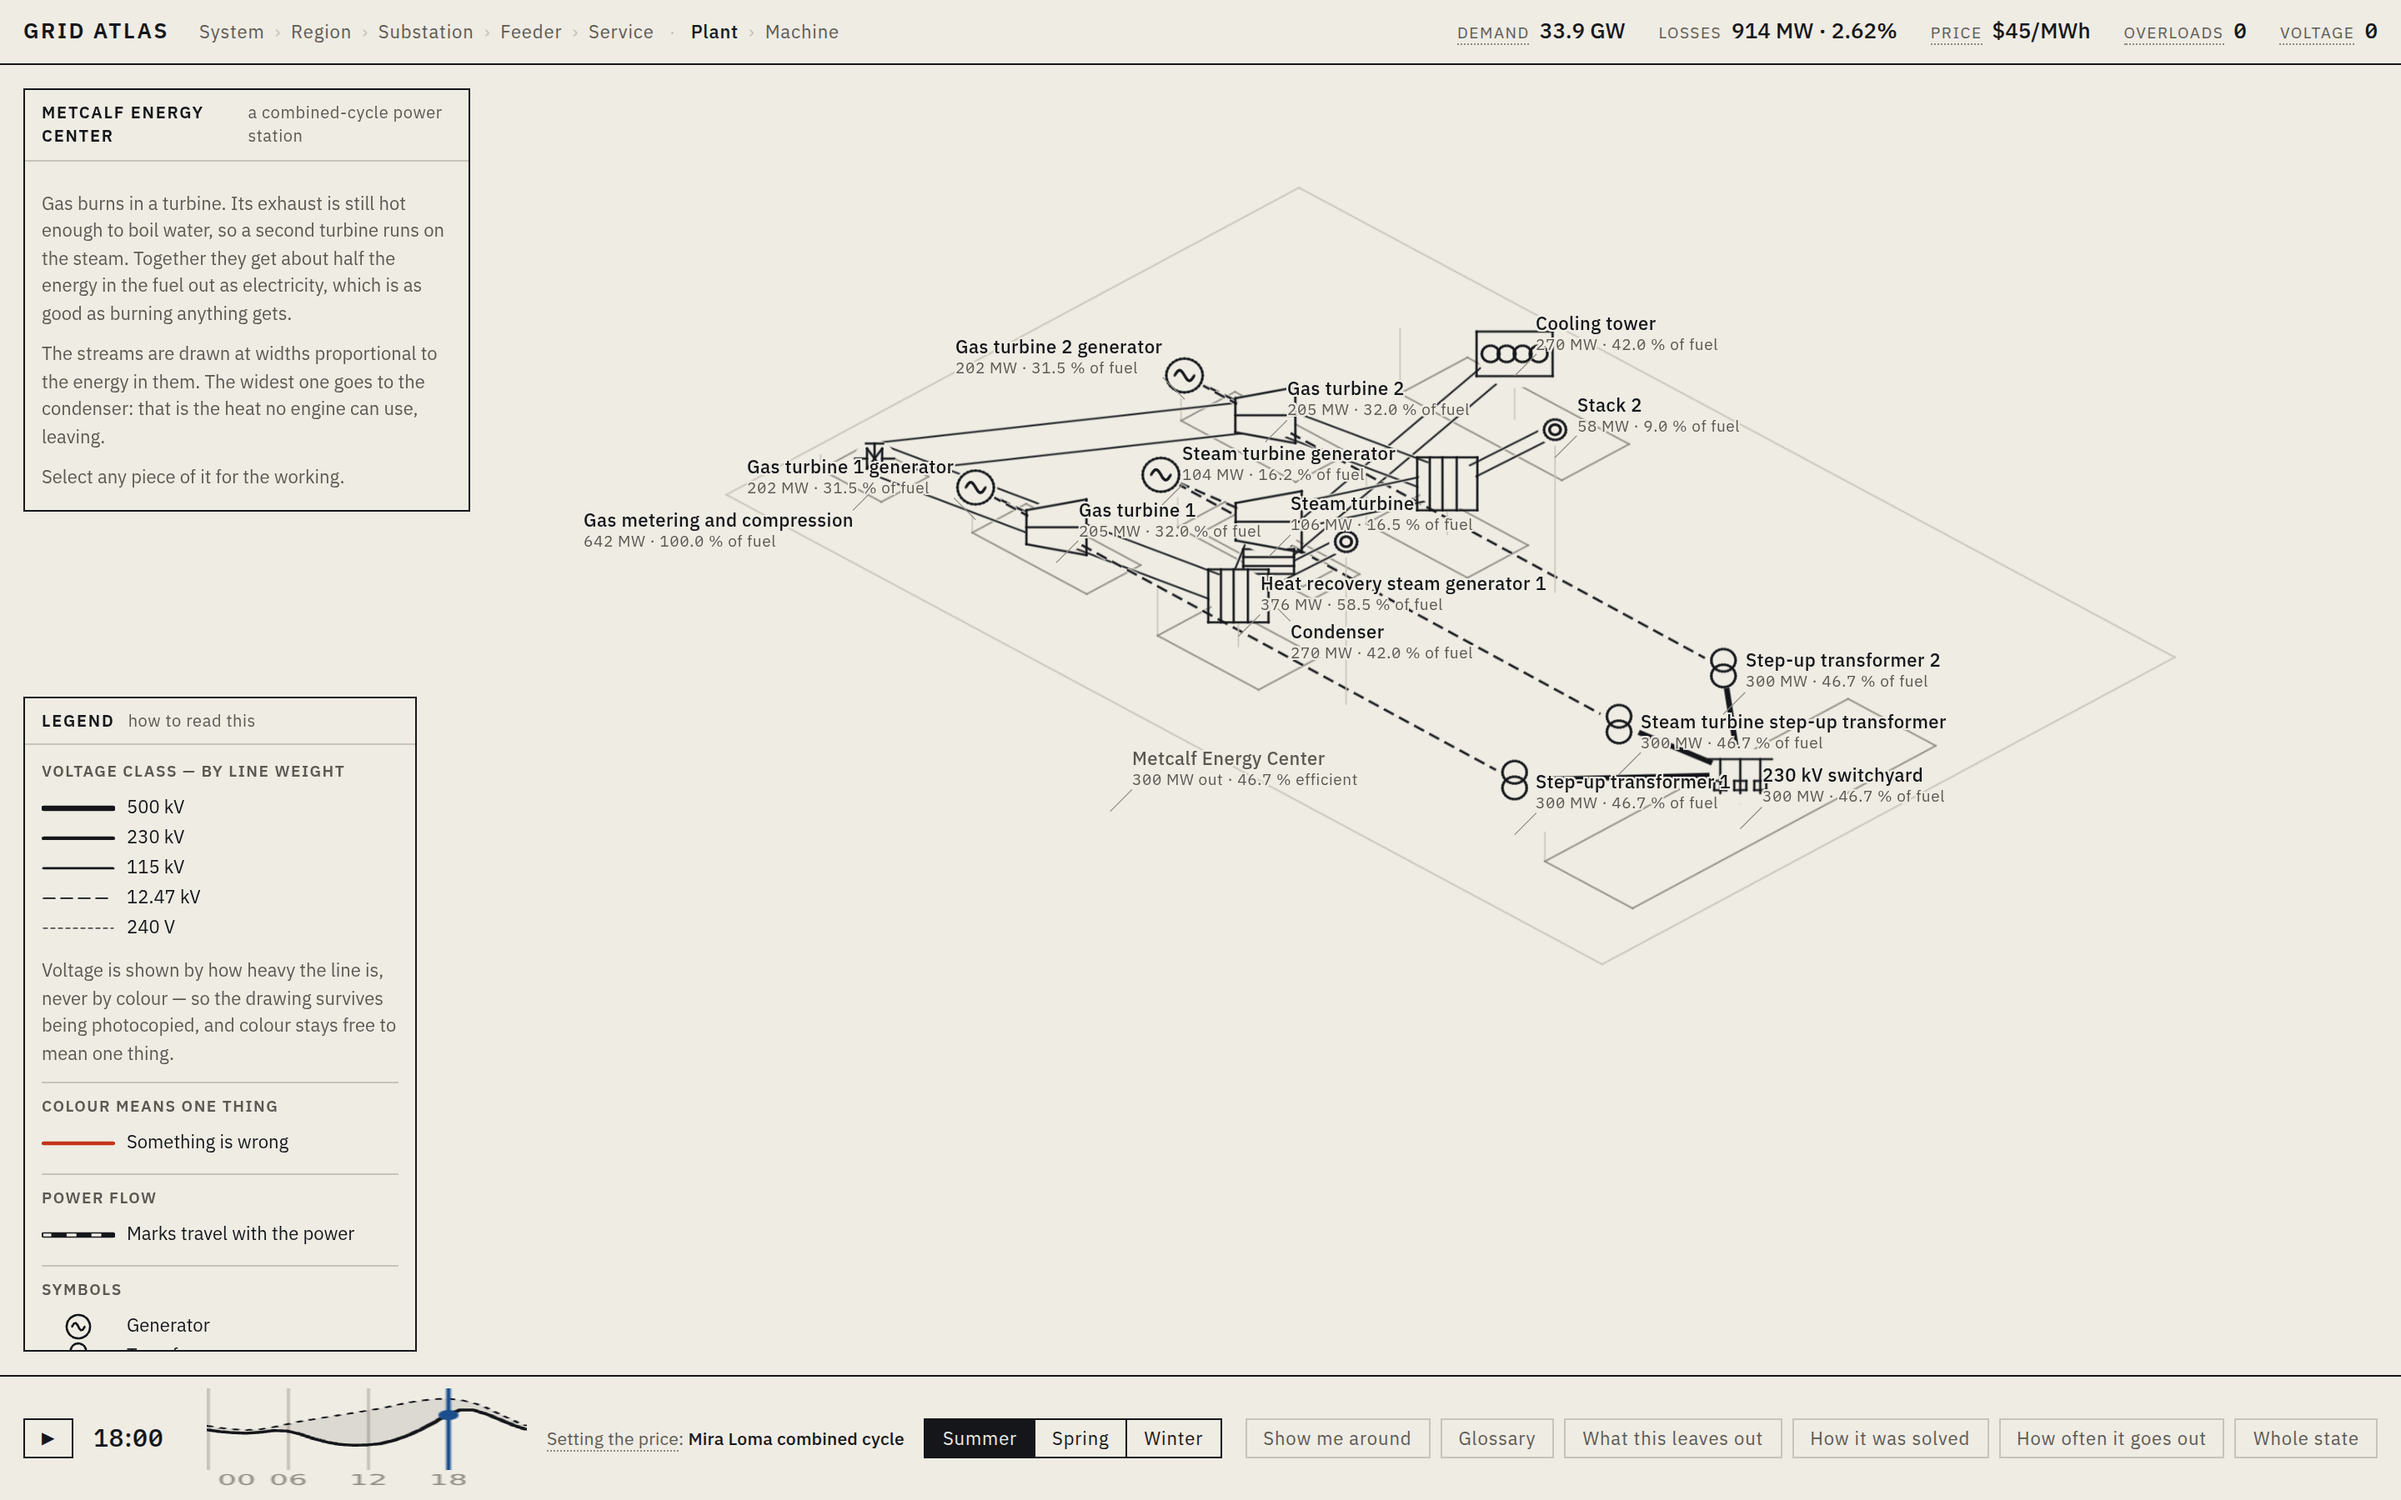
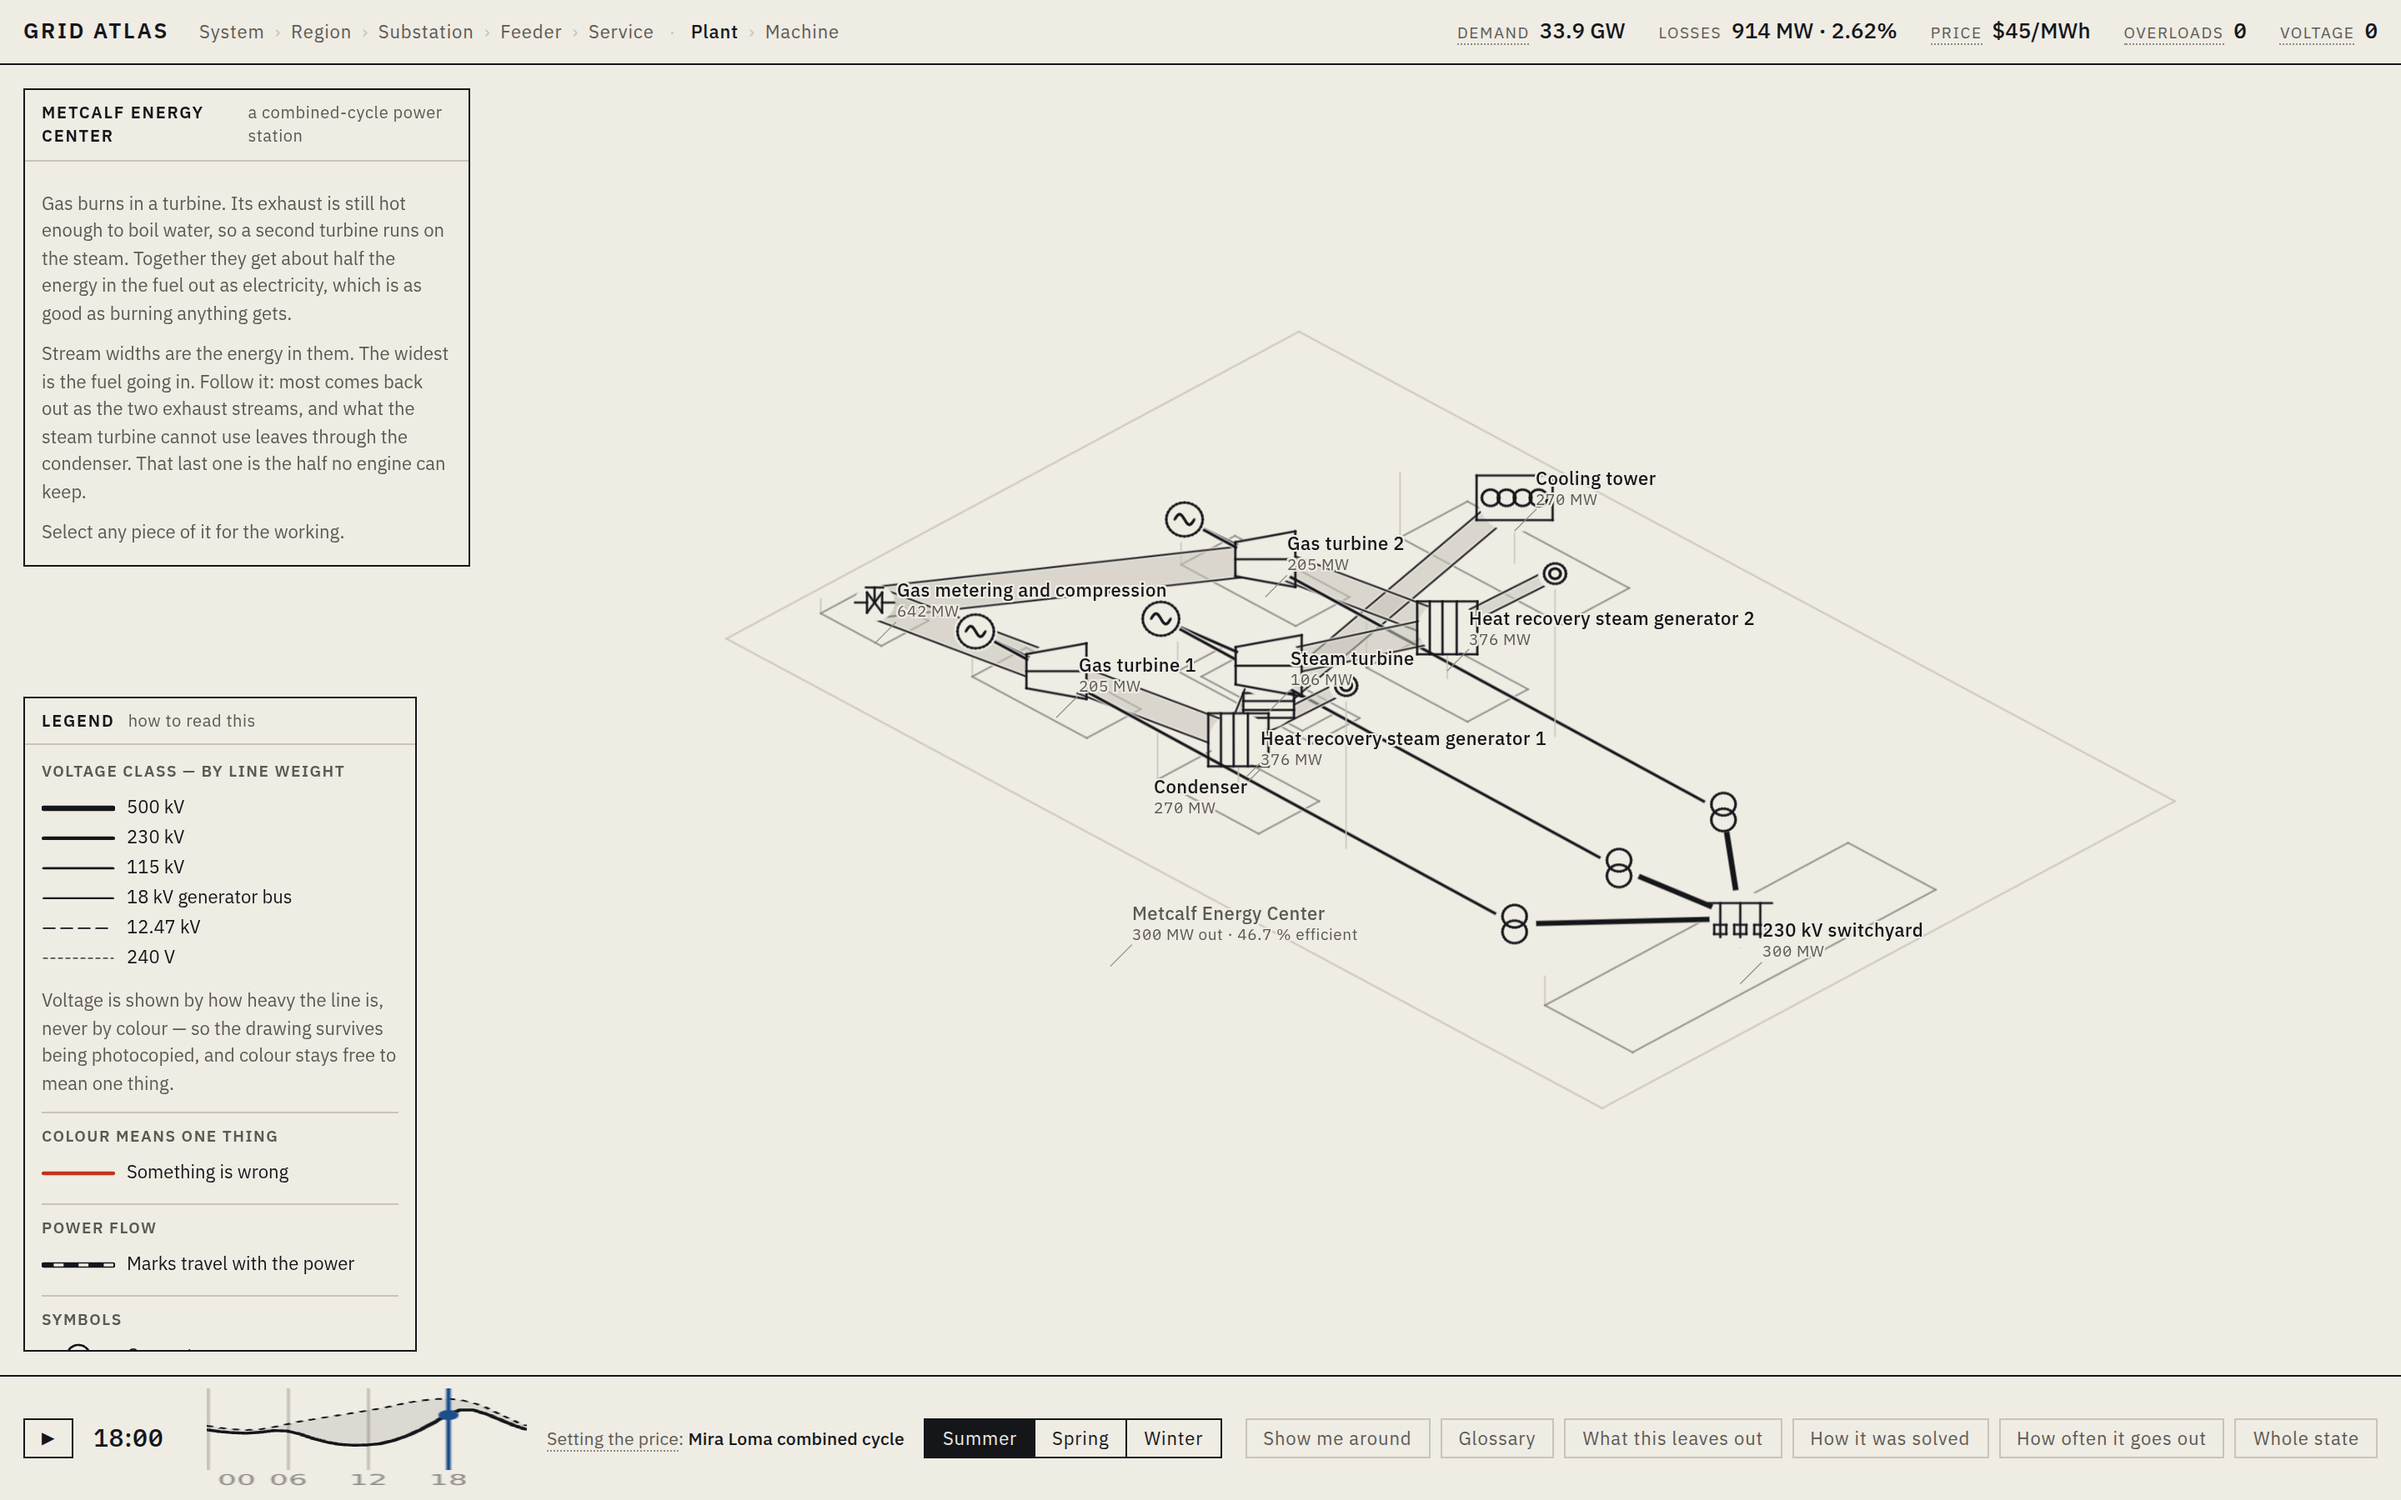
The plant: the drawing now makes the claim the panel makes
THE DUCTS WERE INVISIBLE. Thermal streams are drawn at widths proportional to
the energy in them, which is the whole idea of the view — and they were two
thin walls a centimetre apart, which reads as two lines, not as a stream. A
pale core between the walls turns the pair into a band, the way a section
through a duct is drawn, and the widths are now something the eye can
compare.

THE PANEL WAS WRONG ABOUT ITS OWN DRAWING. It said the widest stream goes to
the condenser. The widest stream is the fuel going in, at 642 MW against the
condenser's 270. Rewritten to walk the energy through in the order it
actually goes.

THE GENERATOR BUS WAS DASHED. Generator leads were drawn at 12.47 kV, so they
picked up the dash pattern the legend reserves for the wires along a street.
An 18 kV isolated-phase bus three metres long inside a power station is not
that, and saying it in the one visual code the app has was a plain lie. There
is now an 18 kV generator-bus class, solid, between 115 kV and 12.47 kV in
weight, and it is in the legend because it is drawn.

The test that guarded this encoded a proxy — solid above 100 kV, dashed below
— rather than the rule, which is that the dash means DISTRIBUTION. Rewritten
to say that, plus a new test that line weight stays monotonic in voltage,
which is the legend's actual claim.

EIGHTEEN CAPTIONS became ten. Only the stages that make the cycle a cycle
keep a standing name; a generator sits against the turbine driving it and is
[…]

diff --git a/src/render/scene-plant.ts b/src/render/scene-plant.ts
@@ -270,7 +270,12 @@ export function drawPlant(
     if (stage === 'export' || stage === 'gt-generator' || stage === 'st-generator') {
       // Electrical: a single stroke at its voltage class weight, exactly as
       // everywhere else in the app.
-      const kV = fromId.startsWith('GSU') || toId === 'SWITCHYARD' ? 230 : 12.47;
+      // Generator leads run at GENERATOR voltage, not at distribution voltage.
+      // They were drawn at 12.47 kV, which gave them the dashed pattern the
+      // legend reserves for the wires along a street — an 18 kV isolated-phase
+      // bus three metres long is not that, and saying so in the one visual
+      // code the app has was a straightforward lie.
+      const kV = fromId.startsWith('GSU') || toId === 'SWITCHYARD' ? 230 : 18;
       const cls = voltageClass(kV);
       mark({
         a: [a.x, a.y, a.z], b: [b.x, b.y, b.z],
@@ -280,10 +285,21 @@ export function drawPlant(
           ? { dash: [cls.dashPx[0], cls.dashPx[1]] as [number, number] } : {}),
       }, depth, HALO_PAD_PX);
     } else {
-      // Thermal: a duct, drawn as its two walls, with the gap between them
+      // Thermal: a duct, drawn as its two walls with the gap between them
       // proportional to the square root of the power it carries.
+      //
+      // The walls alone did not work. Two thin lines a centimetre apart read
+      // as two lines, not as one stream, so the claim the panel makes — that
+      // the widths ARE the energy — was invisible in the drawing that was
+      // supposed to be making it. A pale core between the walls turns the pair
+      // into a band, which is what a section through a duct looks like and
+      // what the eye compares.
       const widthPx = ductWidthPx(mw, reference);
       const perp = perpendicularOnGround(camera, a, b, widthPx / 2);
+      mark({
+        a: [a.x, a.y, a.z], b: [b.x, b.y, b.z],
+        widthPx, color: INK.inkGhost, opacity: 0.55,
+      }, depth + 2);
       for (const sign of [-1, 1]) {
         mark({
           a: [a.x + perp.x * sign, a.y, a.z + perp.z * sign],
@@ -331,15 +347,35 @@ export function drawPlant(
       }, depth + 1);
     }
 
+    // ONE number per caption, and "% of fuel" said once rather than eighteen
+    // times. Every item carried both its megawatts and its share of the fuel,
+    // so the drawing came out under two columns of near-identical text and the
+    // repetition drowned the one figure that differs between them.
     const stream = i.stage ? byStage.get(i.stage) : undefined;
+    const emphasised = isSelected || isHovered;
+
+    // Eighteen standing captions over a drawing this size is a page of text
+    // with a diagram behind it. Only the things that make the cycle a cycle
+    // keep a name; a generator sits against the turbine that drives it and a
+    // step-up transformer against the generator, so both are legible from
+    // their neighbours and answer on hover.
+    if (!emphasised && !NAMED_IN_PLANT.has(i.kind)) {
+      picks.push({
+        id: i.id, kind: 'site', world: p.clone(),
+        radiusPx: LAYOUT.pickRadiusPx * 1.2,
+      });
+      continue;
+    }
+    const value = emphasised && stream
+      ? `${formatPower(stream.mw)} · ${(stream.fraction * 100).toFixed(1)} % of the fuel`
+      : stream ? formatPower(stream.mw)
+        : emphasised && i.rating ? i.rating : undefined;
     labels.push({
       id: `plant:${i.id}`,
       world: p,
       text: i.name,
-      ...(stream
-        ? { value: `${formatPower(stream.mw)} · ${(stream.fraction * 100).toFixed(1)} % of fuel` }
-        : i.rating ? { value: i.rating } : {}),
-      priority: plantPriority(i) + (isSelected || isHovered ? 5000 : 0),
+      ...(value ? { value } : {}),
+      priority: plantPriority(i) + (emphasised ? 5000 : 0),
       tone: isSelected ? 'selected' : 'normal',
     });
 
@@ -410,6 +446,18 @@ function perpendicularOnGround(
 
 const formatPower = (mw: number): string =>
   Math.abs(mw) >= 1000 ? `${(mw / 1000).toFixed(2)} GW` : `${mw.toFixed(0)} MW`;
+
+/**
+ * What keeps a standing label in the plant.
+ *
+ * The four stages of the cycle and the two places energy leaves it: burn,
+ * recover, expand, reject. Everything else is identified by what it is bolted
+ * to.
+ */
+const NAMED_IN_PLANT = new Set<PlantItem['kind']>([
+  'gas-turbine', 'hrsg', 'steam-turbine', 'condenser', 'cooling-tower',
+  'switchyard', 'fuel',
+]);
 
 function plantPriority(i: PlantItem): number {
   return i.kind === 'gas-turbine' ? 900

diff --git a/test/visual-language.test.ts b/test/visual-language.test.ts
@@ -41,10 +41,35 @@ describe('voltage classes are encoded by weight, never by hue', () => {
     }
   });
 
-  it('separates the transmission classes from the distribution ones by dash', () => {
+  it('reserves the dash for circuits that run along a street', () => {
+    // The dash does not mean "low voltage". It means DISTRIBUTION: the wires
+    // on the poles outside, and the drop from the pole to a building. Voltage
+    // was a usable proxy for that until the generator bus was drawn, which is
+    // 18 kV and is three metres of enclosed busbar inside a power station —
+    // dashing it would have said "this is the wire along your street", which
+    // is the one thing the visual code exists to say, and it would have been
+    // false.
+    const DASHED = new Set([12.47, 0.24]);
     for (const c of VOLTAGE_CLASSES) {
-      if (c.kV >= 100) expect(c.dashPx, `${c.label} should be solid`).toEqual([]);
-      else expect(c.dashPx.length, `${c.label} should be dashed`).toBe(2);
+      if (DASHED.has(c.kV)) {
+        expect(c.dashPx.length, `${c.label} should be dashed`).toBe(2);
+      } else {
+        expect(c.dashPx, `${c.label} should be solid`).toEqual([]);
+      }
+    }
+  });
+
+  it('keeps line weight monotonic in voltage, which is the whole claim', () => {
+    // The legend says heavier means higher voltage. If the table ever stopped
+    // being sorted, the legend would be lying in the most basic way available
+    // to it.
+    for (let i = 1; i < VOLTAGE_CLASSES.length; i++) {
+      const above = VOLTAGE_CLASSES[i - 1];
+      const below = VOLTAGE_CLASSES[i];
+      expect(below.kV, `${below.label} after ${above.label}`)
+        .toBeLessThan(above.kV);
+      expect(below.weightPx, `${below.label} lighter than ${above.label}`)
+        .toBeLessThan(above.weightPx);
     }
   });
 

diff --git a/src/render/style.ts b/src/render/style.ts
@@ -121,6 +121,13 @@ export const VOLTAGE_CLASSES: VoltageClassStyle[] = [
       'substation.',
   },
   {
+    kV: 18, label: '18 kV generator bus', weightPx: 1.1, dashPx: [],
+    blurb:
+      'What a large generator actually produces, before the step-up ' +
+      'transformer. It runs a few metres from the machine to the transformer ' +
+      'in enclosed bus, and nowhere else.',
+  },
+  {
     kV: 12.47, label: '12.47 kV', weightPx: 0.9, dashPx: [7, 3.5],
     blurb:
       'Distribution primary. The wires on the poles along an ordinary street.',
@@ -239,7 +246,7 @@ export const ISOMETRIC = {
 
 export const LAYOUT = {
   /** Minimum gap between two screen-space labels before one is dropped, px. */
-  labelCollisionPaddingPx: 3,
+  labelCollisionPaddingPx: 6,
   /** Distance a label sits from the thing it names, px. */
   labelOffsetPx: 13,
   /** Size of a site's symbol on screen, px. Constant regardless of zoom. */

diff --git a/src/app/levelbar.ts b/src/app/levelbar.ts
@@ -443,9 +443,10 @@ export class LevelBar {
         `enough to boil water, so a second turbine runs on the steam. Together ` +
         `they get about half the energy in the fuel out as electricity, which ` +
         `is as good as burning anything gets.</p>` +
-        `<p class="note">The streams are drawn at widths proportional to the ` +
-        `energy in them. The widest one goes to the condenser: that is the heat ` +
-        `no engine can use, leaving.</p>` +
+        `<p class="note">Stream widths are the energy in them. The widest is ` +
+        `the fuel going in. Follow it: most comes back out as the two exhaust ` +
+        `streams, and what the steam turbine cannot use leaves through the ` +
+        `condenser. That last one is the half no engine can keep.</p>` +
         `<p class="note">Select any piece of it for the working.</p>`;
       return;
     }
